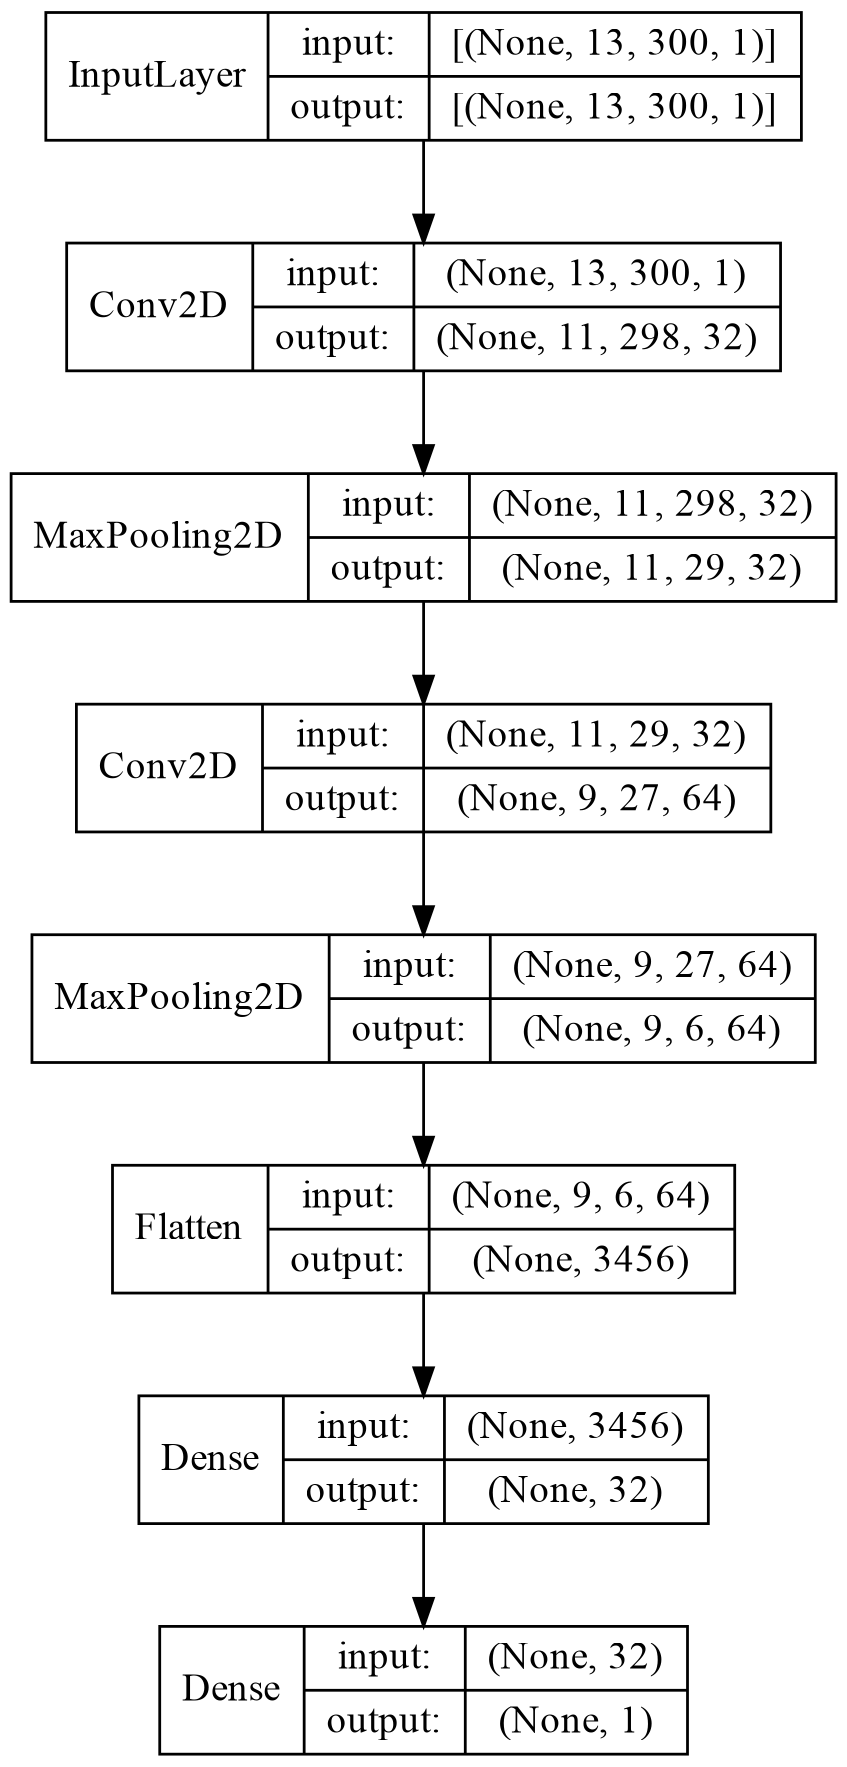
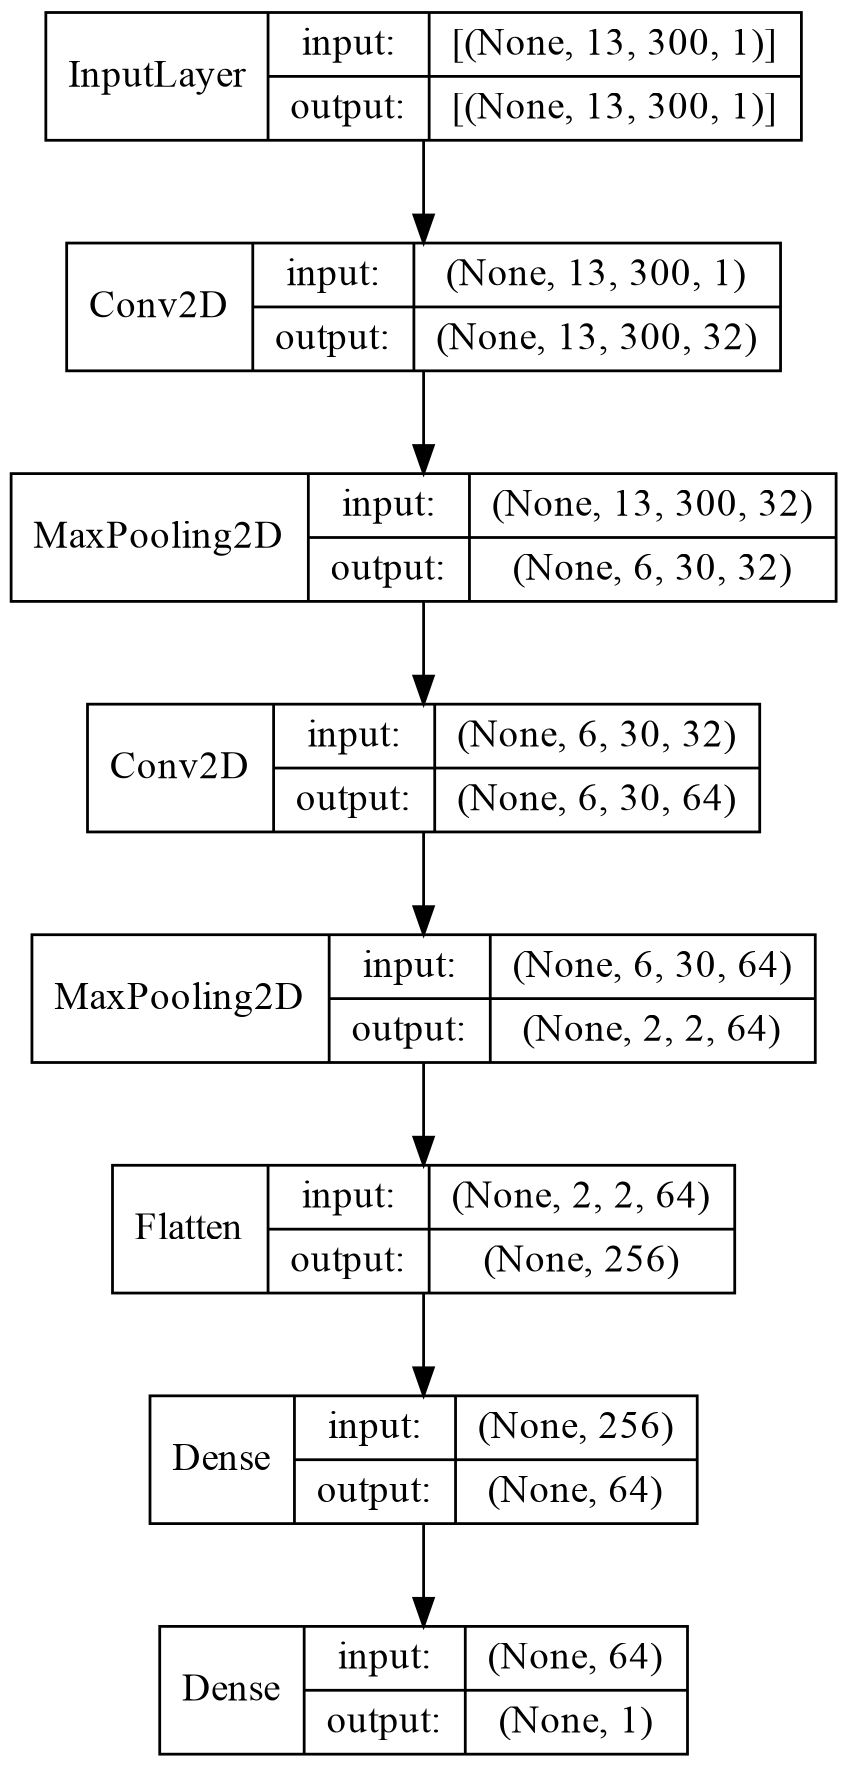
update model

diff --git a/code/python/cnn.py b/code/python/cnn.py
@@ -6,6 +6,8 @@ import pandas as pd
 import tensorflow as tf
 from mfcc import generate_or_load_mfccs
 from utils import plot_history
+from tensorflow.keras.utils import plot_model
+from tensorflow.keras.losses import BinaryCrossentropy
 
 # config logger
 logging.basicConfig(level=logging.INFO,
@@ -18,45 +20,62 @@ def get_labels():
     return pd.read_csv('../../../physionet/samples/labels.csv')
 
 
-def main():
+def get_dataset():
     labels = get_labels()
     mfccs = generate_or_load_mfccs(labels.audio.values)
     labels = labels.label.replace(-1, 0).values.reshape(len(labels), 1)
     x_train, x_test, y_train, y_test = train_test_split(mfccs,
                                                         labels,
-                                                        test_size=0.25,
-                                                        random_state=1)
+                                                        test_size=0.40,
+                                                        random_state=69)
+    return x_train, x_test, y_train, y_test
 
+
+def create_model():
     log.info('Creating model')
     cnn = models.Sequential()
-    cnn.add(Conv2D(32, (10, 2), activation='tanh', input_shape=(13, 300, 1)))
+    cnn.add(Conv2D(32, (13, 1),
+                   activation='tanh',
+                   padding='same',
+                   input_shape=(13, 300, 1)))
     cnn.add(MaxPooling2D((2, 10)))
 
-    cnn.add(Conv2D(64, (1, 4), activation='tanh'))
-    cnn.add(MaxPooling2D((2, 4)))
+    cnn.add(Conv2D(64, (2, 5), activation='tanh', padding='same'))
+    cnn.add(MaxPooling2D((3, 15)))
 
     cnn.add(Flatten())
+
     cnn.add(Dense(64, activation='tanh'))
 
     cnn.add(Dense(1))
-    cnn.compile(optimizer=tf.keras.optimizers.Adam(),
-                loss=tf.keras.losses.BinaryCrossentropy(from_logits=True),
+    cnn.compile(optimizer=tf.keras.optimizers.Adam(0.0008),
+                loss=BinaryCrossentropy(from_logits=True),
                 metrics=['accuracy'])
+    return cnn
 
+
+def train_model(model, x_train, x_test, y_train, y_test):
     log.info('Start training')
 
-    history = cnn.fit(x_train,
-                      y_train,
-                      epochs=30,
-                      batch_size=int(len(x_train)/300),
-                      validation_data=(x_test, y_test))
+    history = model.fit(x_train,
+                        y_train,
+                        epochs=50,
+                        batch_size=32,
+                        validation_data=(x_test, y_test))
+    return history
 
+
+def main():
+    x_train, x_test, y_train, y_test = get_dataset()
+    cnn = create_model()
+    history = train_model(cnn, x_train, x_test, y_train, y_test)
+    plot_model(cnn, 'model.png', show_layer_names=False,
+               show_shapes=True, dpi=200)
     plot_history(history)
-
     test_loss, test_acc = cnn.evaluate(x_test, y_test)
-
     log.info(f"Accuracy: {test_acc}")
+    return cnn, history
 
 
 if __name__ == '__main__':
-    main()
+    cnn, history = main()

diff --git a/code/python/utils.py b/code/python/utils.py
@@ -1,7 +1,7 @@
 import matplotlib.pyplot as plt
 
 
-def plot_history(history):
+def setup():
     fig = plt.figure(figsize=(12, 6))
     ax = fig.add_subplot(111)
     ax.xaxis.label.set_color('white')
@@ -12,6 +12,10 @@ def plot_history(history):
     ax.spines['top'].set_color('white')
     ax.spines['right'].set_color('white')
     ax.spines['bottom'].set_color('white')
+
+
+def plot_history(history):
+    setup()
     plt.plot(history.history['accuracy'], label='accuracy')
     plt.plot(history.history['val_accuracy'], label='val_accuracy')
     plt.xlabel('Epoch')
@@ -19,3 +23,13 @@ def plot_history(history):
     plt.ylim([0.7, 1])
     plt.legend(loc='best', framealpha=0, labelcolor='white')
     plt.savefig('accuracy.png', dpi=200, transparent=True)
+    plt.close()
+
+    setup()
+    plt.plot(history.history['loss'], label='loss')
+    plt.plot(history.history['val_loss'], label='val_loss')
+    plt.xlabel('Epoch')
+    plt.ylabel('Loss')
+    plt.legend(loc='best', framealpha=0, labelcolor='white')
+    plt.savefig('loss.png', dpi=200, transparent=True)
+    plt.close()
